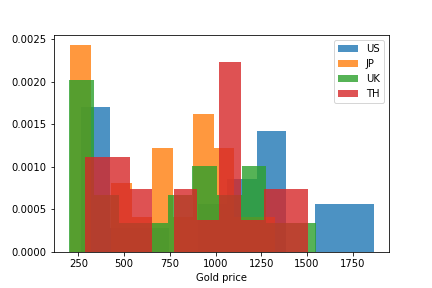
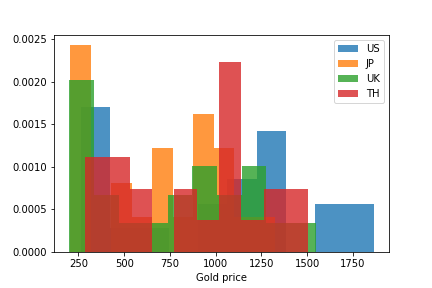
added report, slight update to the code

diff --git a/favas.py b/favas.py
@@ -4,7 +4,7 @@ import matplotlib.pyplot as plt
 import pandas as pd
 
 #File read into pandas dataframe
-world = pd.read_csv("E:/Herts/ADS1/Assignment 1/favas/1990-2021.csv")
+world = pd.read_csv("C:/Users/favas/Downloads/Assignment/1990-2021.csv")
 plt.figure()
 
 def rate_conversion(currency_name, conversion_multiplier):
